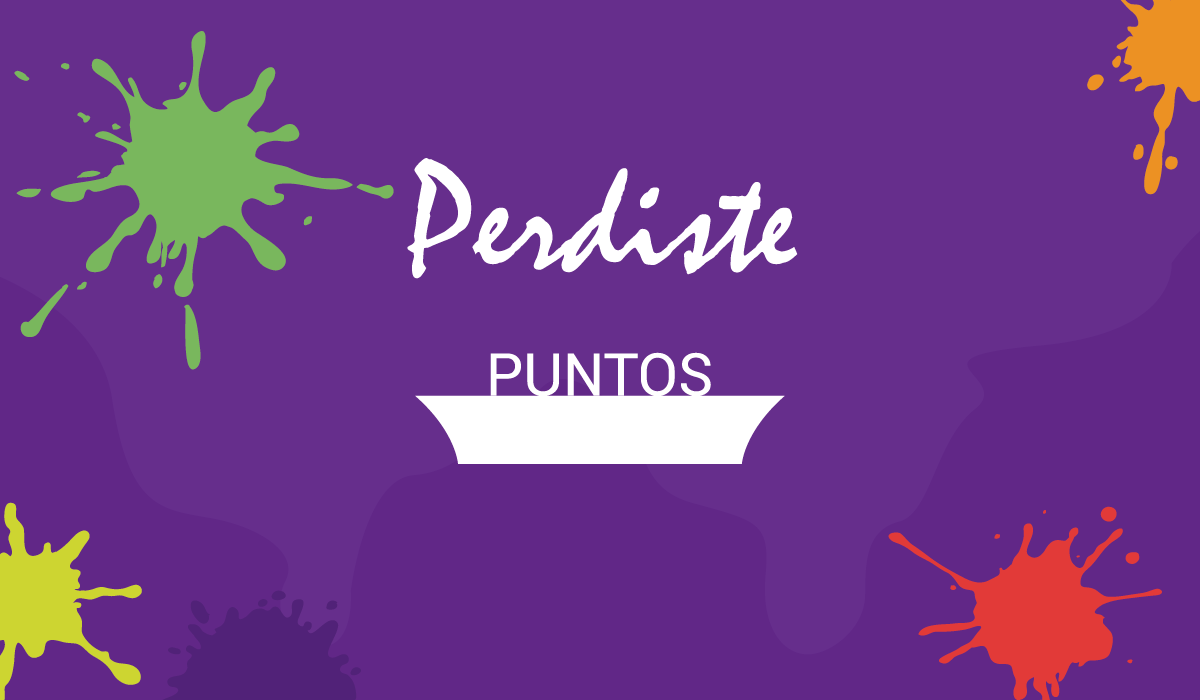
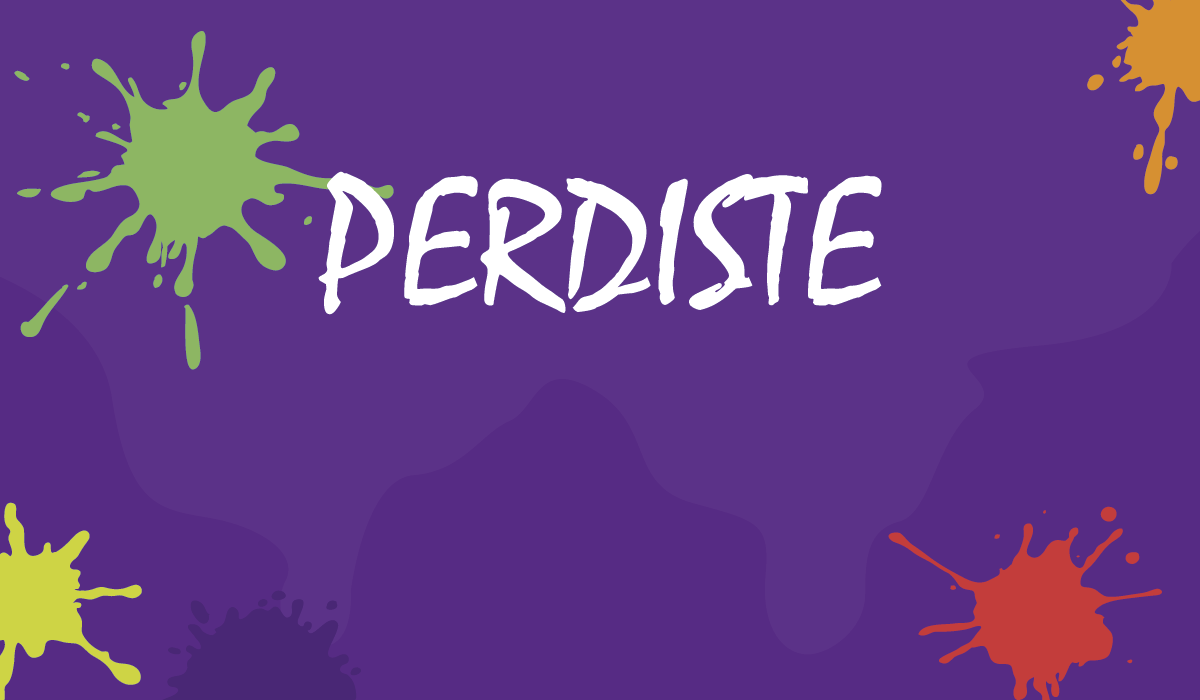
asdasdas

diff --git a/src/Logica.java b/src/Logica.java
@@ -84,16 +84,22 @@ public class Logica {
 				for (int i = 0; i < en.getTirables().size(); i++) {
 					Proyectil proyectil = en.getTirables().get(i);
 					proyectil.display();
-//					proyectil.setPos(en.get);
+					// proyectil.setPos(en.get);
 				}
 			}
 			jugador.display();
 			jugador.moverMouse();
 			jugador.sumarPuntaje(en.getTirables());
+			if (jugador.getPuntaje() < 0) {
+				cambio = 4;
+			}
+
+			break;
+		case 4:
+			app.image(perder, 0, 0);
 			break;
 		}
 	}
-
 
 	public void vectorLeap(PVector v) {
 		if (cambio == 0) {
@@ -113,7 +119,6 @@ public class Logica {
 		}
 
 	}
-
 
 	public void clicked(PVector v, String string) {
 		/**
@@ -142,7 +147,6 @@ public class Logica {
 			}
 		}
 	}
-
 
 	public int getCambio() {
 		return cambio;

diff --git a/src/Proyectil.java b/src/Proyectil.java
@@ -33,7 +33,7 @@ public class Proyectil {
 		vel.add(gravity);
 
 		// esta joda hace que la esfera o el elemento, rebote en las esquinas
-		if ((pos.x > app.width) || (pos.x < 0)) {
+		if ((pos.x >= app.width) || (pos.x < 0)) {
 			vel.x = vel.x * -1;
 		}
 		if (pos.y >= app.height) {

diff --git a/src/Player.java b/src/Player.java
@@ -43,7 +43,7 @@ public class Player {
 						proyectil.setPuntaje(0);
 						lista.remove(proyectil);
 					}
-					
+				
 					
 				}				
 			}
